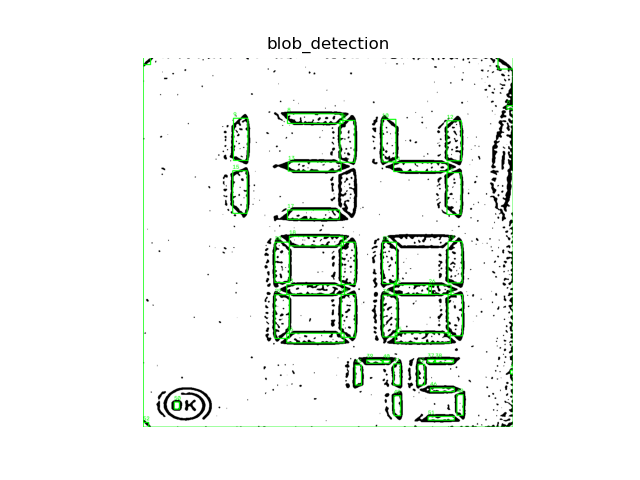
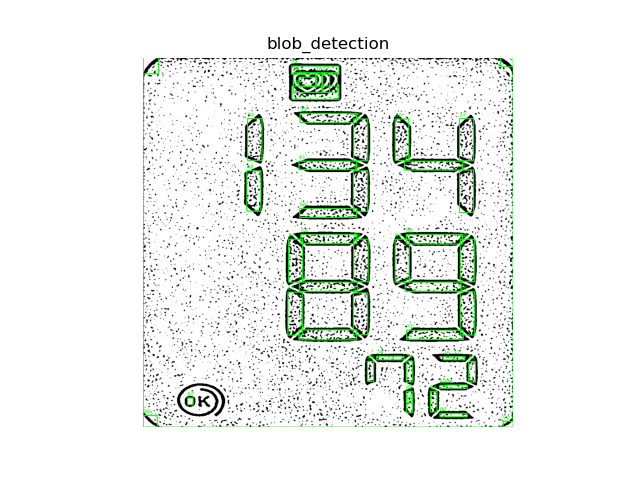
all digits detected

Changed region(s): [[0.2188, 0.0938, 0.8125, 0.9062], [0.2812, 0.4688, 0.3125, 0.5]]

diff --git a/assignment/purcell_finn_21500358/task2.py b/assignment/purcell_finn_21500358/task2.py
@@ -51,7 +51,10 @@ def preprocess_image(image, threshold=threshold_otsu, windowSize = 15, k=0.2):
 
     cv_im = img_as_ubyte(binary_im) #convert back to openCV
 
-    cv_im = cv2.medianBlur(cv_im, 7)
+    #kernel = np.ones((5, 5), np.uint8)
+    #combined = cv2.dilate(cv_im, kernel, iterations=1)
+
+    #cv_im = cv2.medianBlur(cv_im, 7)
     
     show_image(cv_im, title = "binary_image", cmap='binary')
 
@@ -106,7 +109,7 @@ def run_task2(image_path, config):
     save_output(output_path, "Task 2 output", output_type='txt')
 
 if __name__ == "__main__":
-    image = read_im_gs("images/lcd4.png")
+    image = read_im_gs("images/lcd5.png")
 
     binary = preprocess_image(image, threshold_sauvola, windowSize=15, k=0.025)
     markedImage = connectedComponentAnalysis(binary)
